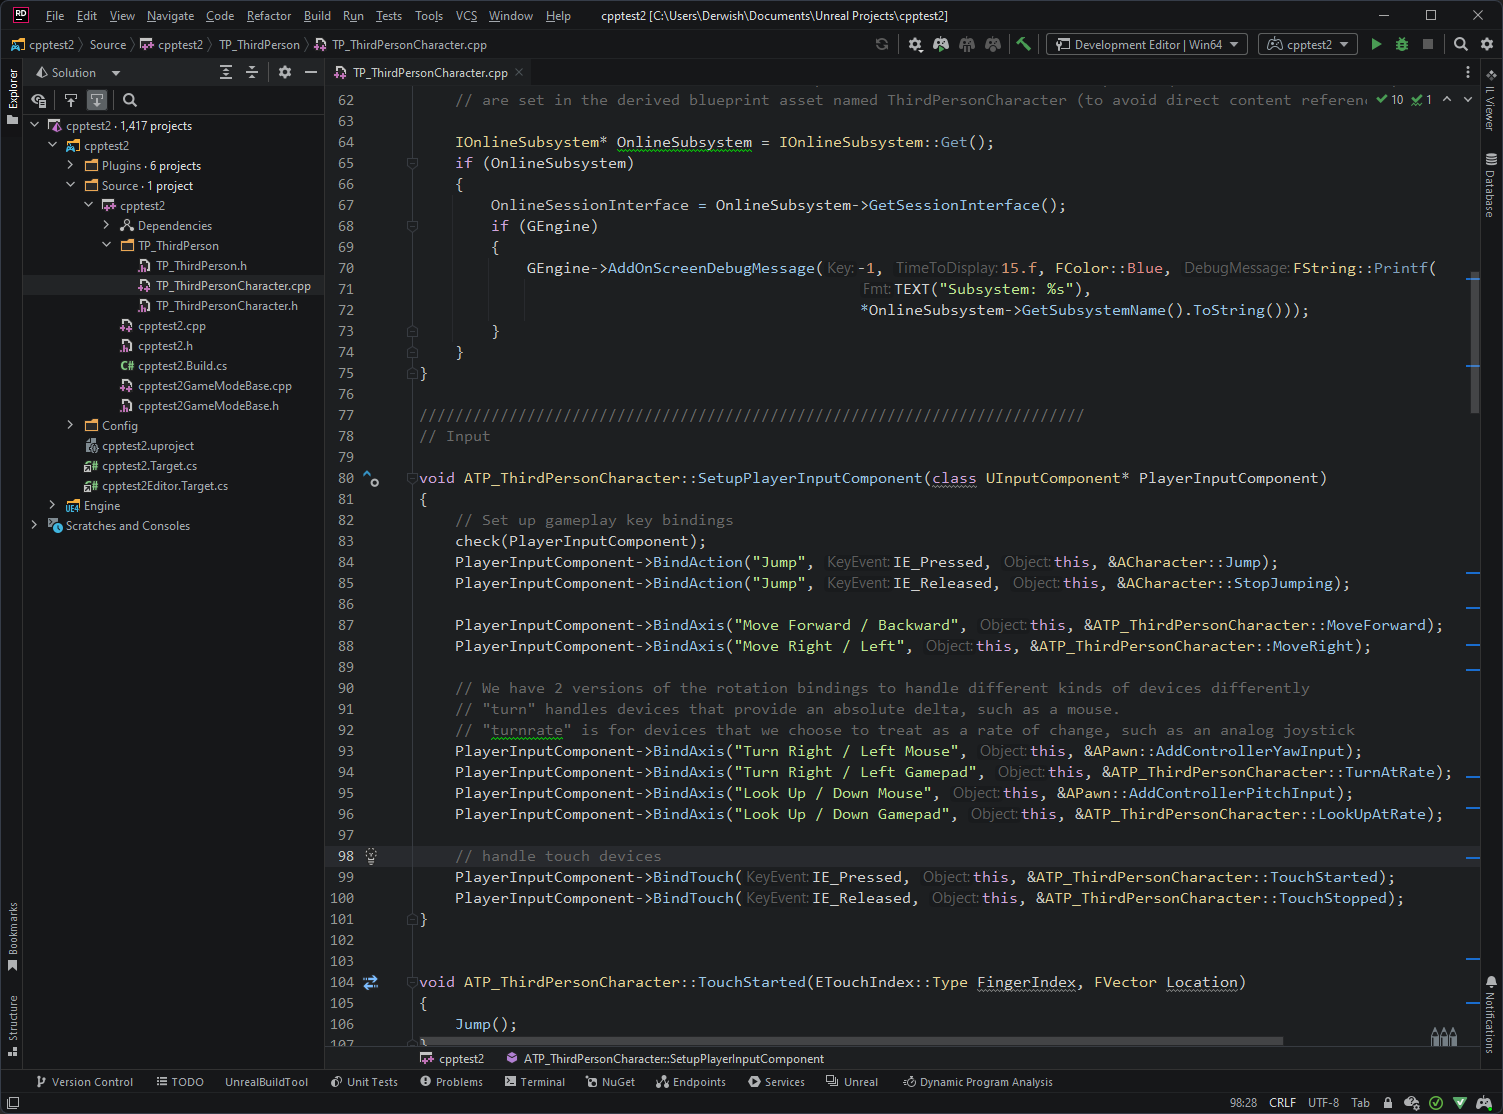
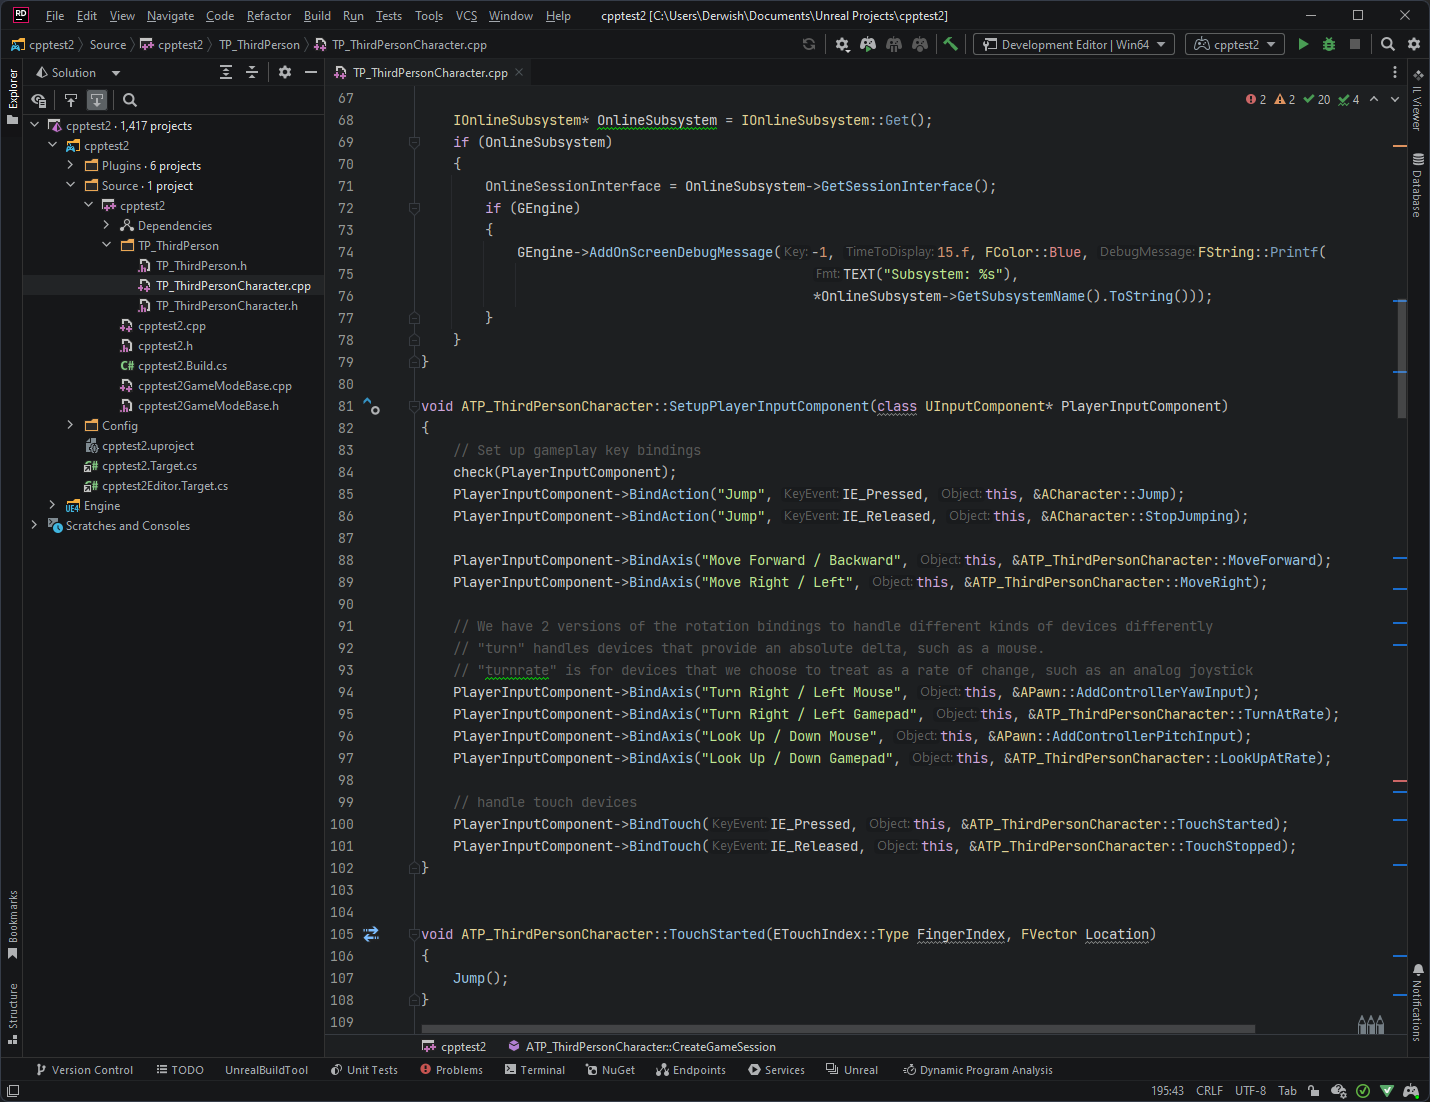
vivid theme

diff --git a/README.md b/README.md
@@ -1,6 +1,12 @@
-Unreal Simple theme for JetBrains IDE (Rider, Clion, WebStorm, PyCharm, etc..).
+Unreal Simple theme for JetBrains IDE (Rider, CLion, WebStorm, PyCharm, etc..).
+
+Default theme:
 
 ![screenshot](./screenshots/screen.png)
+
+Vivid theme:
+
+![screenshot](./screenshots/screen_vivid.png)
 
 How to install:
 
